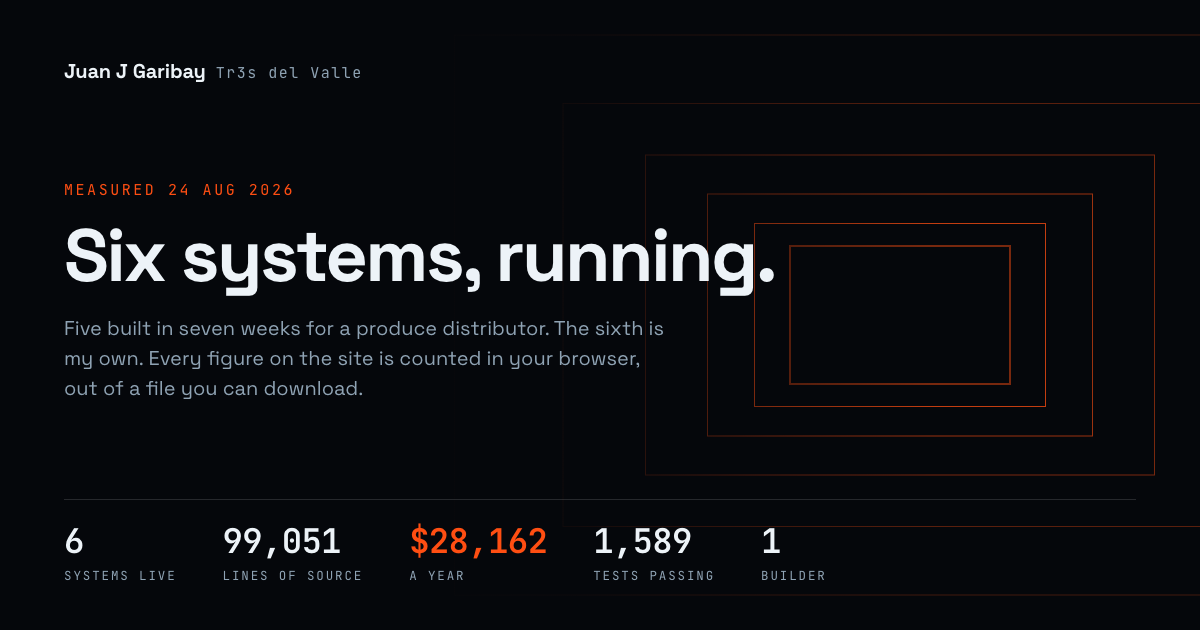
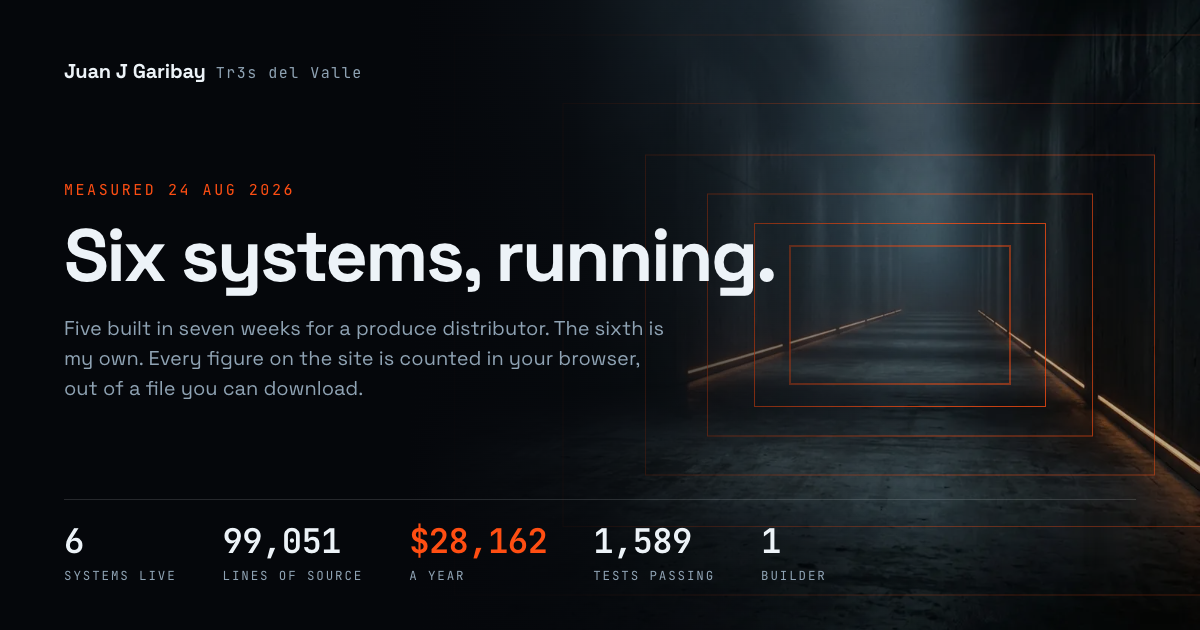
feat(portada): el mundo deja de ser solo geometria
Cinco planchas generadas, procesadas en vez de pegadas.

La marca del generador estaba en la esquina de todas. Medida contra el fondo
negro del bisel son 48x48 exactos a 96px de los dos bordes, y eso se sostiene
en las tres relaciones de aspecto que devolvio el generador: el margen es
absoluto, no proporcional. Un primer intento la dimensiono como porcentaje del
alto y le habria fallado la parte de arriba en las planchas mas altas. Se pinta
encima, no se recorta: recortar una textura destruye los bordes que tienen que
encontrarse.

Las dos texturas se vuelven continuas por construccion, espejadas en los dos
ejes. Diferencia media en el borde: 0.20 y 0.54 sobre 255.

El bisel se recorta a su propio marco, lo que lleva la abertura del 50% al 67%
del archivo y evita que un panel tenga que duplicar su tamano en el mundo para
que la captura se vea igual. La abertura mide 1.590 contra el 1.600 de las
capturas, asi que nada se estira. Currents no lleva marco: es un telefono, y un
telefono atornillado a un mamparo miente sobre lo que es.

Lo que se rompio, y por que vale escribirlo: las capturas salieron fuera de sus
marcos, mas grandes y corridas. `.bay__panel--framed img` y `.bay__panel img`
son ambas una clase mas un elemento, asi que empatan en especificidad y gana la
escrita despues; la regla base pone 100% de ancho y alto y va despues, asi que
la imagen tomo el marco entero pero respetando el left y el top de la otra.
[…]

Changed region(s): [[0.555, 0.0, 1.0, 0.9048]]

diff --git a/js/world.js b/js/world.js
@@ -180,12 +180,26 @@ const PANEL_AT = 0.94;
 /** Lateral standoff, on the opposite side from the copy. */
 const PANEL_X = 620;
 
+/**
+ * Panel geometry, in world units.
+ *
+ * For the five application screens this is the size of the FRAME, not of the
+ * screenshot: the bezel is the asset, and the screenshot is inset into its
+ * opening by the percentages measured off the image itself (16.73% / 22.14%,
+ * 66.91% x 56.33%). The frame's own aspect is 1100x822, so every framed entry
+ * holds that ratio and the opening inside it lands at 1.59, which is what the
+ * screenshots already are.
+ *
+ * Currents is not framed. It is a phone, and a phone bolted into a bulkhead is
+ * a lie about what it is; the portrait crop would also cut the screenshot.
+ */
+const FRAME_ASPECT = 1100 / 822;
 const SHAPE = {
-  'rutero-tdv':              { w: 820, h: 512 },
-  'cotizador-tdv':           { w: 760, h: 474 },
-  'cotizador-farmers-fresh': { w: 620, h: 474 },
-  'data-triage-center':      { w: 780, h: 487 },
-  'tdv-outbound-log':        { w: 720, h: 450 },
+  'rutero-tdv':              { w: 900, h: 673, framed: true },
+  'cotizador-tdv':           { w: 840, h: 628, framed: true },
+  'cotizador-farmers-fresh': { w: 720, h: 538, framed: true },
+  'data-triage-center':      { w: 860, h: 643, framed: true },
+  'tdv-outbound-log':        { w: 800, h: 598, framed: true },
   currents:                  { w: 285, h: 613 },
 };
 
@@ -206,8 +220,20 @@ function buildBays() {
     el.className = 'bay';
     el.dataset.z = String(z);
 
+    // A section of wall behind the frame. Without it a bezel hangs in mid-air,
+    // which is the one thing a bolted frame cannot plausibly do.
+    if (shape.framed) {
+      const wall = document.createElement('div');
+      wall.className = 'bay__wall';
+      wall.style.cssText =
+        `width:${Math.round(shape.w * 1.9)}px;height:${Math.round(shape.h * 1.75)}px;` +
+        `left:${Math.round(-shape.w * 0.95)}px;top:${Math.round(-shape.h * 0.875)}px;` +
+        `transform:rotateY(${rot}deg) translateZ(-14px)`;
+      el.append(wall);
+    }
+
     const panel = document.createElement('div');
-    panel.className = 'bay__panel';
+    panel.className = shape.framed ? 'bay__panel bay__panel--framed' : 'bay__panel';
     panel.style.cssText =
       `width:${shape.w}px;height:${shape.h}px;left:${-shape.w / 2}px;top:${-shape.h / 2}px;` +
       `transform:rotateY(${rot}deg)`;
@@ -241,6 +267,20 @@ function buildBays() {
     bayEls.push({ el, z, panel: true });
   });
 
+  // The end wall. The shader still draws its own terminal plate behind this,
+  // which is what shows before the image has decoded and under reduced motion;
+  // this is the surface the reader actually arrives at.
+  const wall = document.createElement('div');
+  wall.className = 'bay endwall';
+  wall.dataset.z = String(END_Z - 40);
+  const face = document.createElement('div');
+  face.className = 'endwall__face';
+  face.style.cssText = `width:3200px;height:1744px;left:-1600px;top:-872px`;
+  wall.append(face);
+  wall.style.transform = `translate3d(0,0,${-(END_Z - 40)}px)`;
+  cam.append(wall);
+  bayEls.push({ el: wall, z: END_Z - 40, far: 5200 });
+
   // Struts down the whole corridor. They are what makes the travel legible:
   // without something passing at a fixed interval, a fly-through has no speed.
   for (let z = 600; z < END_Z; z += 700) {
@@ -255,6 +295,27 @@ function buildBays() {
     s.style.transform = `translate3d(0,0,${-z}px)`;
     cam.append(s);
     bayEls.push({ el: s, z, strut: true });
+  }
+}
+
+/* ---------------------------------------------------------------- the dust */
+/* Two layers at different rates. Each cycles a scale as the camera advances,
+   so motes appear to pass rather than slide, and the two are half a cycle out
+   of phase so the loop never lands on both at once. */
+const dustLayers = [];
+function buildDust() {
+  document.querySelectorAll('[data-dust]').forEach((el, i) => {
+    dustLayers.push({ el, phase: i * 0.5, rate: i === 0 ? 0.00042 : 0.00026 });
+  });
+}
+function runDust(z) {
+  for (const d of dustLayers) {
+    const t = (z * d.rate + d.phase) % 1;
+    const scale = 1 + t * 0.9;
+    const fade = Math.sin(t * Math.PI);
+    d.el.style.transform = `scale(${scale.toFixed(3)})`;
+    // 0.55 read as snowfall. Dust should be noticed only once.
+    d.el.style.opacity = (fade * 0.16).toFixed(3);
   }
 }
 
@@ -320,6 +381,11 @@ void main() {
       float m = mod(floor(zk / GAP + 0.5), 4.0);
       float major = 1.0 - step(0.5, m);
       float fog = exp(-te * 0.00052);
+      // Rings stop before the end wall. Arriving, the nearest gantry sits a
+      // few metres ahead and its frame is then so large that only its top and
+      // bottom edges cross the screen: two hard orange bars that read as page
+      // furniture rather than as a passing structure.
+      fog *= smoothstep(uEnd, uEnd - 900.0, zk);
 
       vec3 c = mix(vec3(0.30, 0.44, 0.60), uAccent, 0.25 + major * 0.6 + uSurge * 0.7);
       float a = frame * fog * (0.55 + major * 0.45);
@@ -360,8 +426,12 @@ void main() {
       float plate = band(abs(q.x), -1.0, 820.0) * band(abs(q.y), -1.0, 500.0);
       float inner = band(abs(q.x), -1.0, 796.0) * band(abs(q.y), -1.0, 476.0);
       float grid = max(rib(q.x, 150.0, 1.0), rib(q.y, 150.0, 1.0)) * 0.10;
-      vec3 wall = mix(uCanvas, vec3(0.13, 0.16, 0.21), plate) + vec3(grid * 1.6) * plate;
-      wall += uAccent * (plate - inner) * 1.8;
+      // Plain and dark. The lit frame used to be drawn here, and now that a
+      // real surface is mounted at this depth the two stacked: an orange band
+      // across the top and bottom of the image that belonged to neither. What
+      // is left is the fallback that shows before the image decodes and under
+      // reduced motion, where it is the only end wall there is.
+      vec3 wall = mix(uCanvas, vec3(0.10, 0.12, 0.16), plate) + vec3(grid) * plate;
       float fog = 1.0 - exp(-te * 0.00046);
       shell = mix(mix(shell, wall, plate * 0.98 + 0.02), uCanvas, clamp(fog, 0.0, 1.0));
     }
@@ -770,17 +840,19 @@ function frame() {
 
   vp += (vpTarget - vp) * (reduce ? 1 : 0.04);
   scene.style.perspectiveOrigin = (vp * 100).toFixed(2) + '% 50%';
+  if (!reduce) runDust(camZ);
   cam.style.transform = `translate3d(${(-swayX * 0.25).toFixed(2)}px, ${(-swayY * 0.25).toFixed(2)}px, ${camZ.toFixed(1)}px)`;
 
   for (const b of bayEls) {
     const d = b.z - camZ;
-    const on = d > 30 && d < 3600;
+    const on = d > 30 && d < (b.far ? b.far + 700 : 3600);
     if (on !== b.on) { b.on = on; b.el.style.visibility = on ? 'visible' : 'hidden'; }
     if (on) {
       // Fade at BOTH ends. Only the far end was faded on the first cut, so a
       // panel about to pass the camera filled half the frame with a blurred
       // fragment of a screenshot behind the copy.
-      const far = Math.min(1, Math.max(0, 1 - (d - 2900) / 700));
+      const farStart = b.far || 2900;
+      const far = Math.min(1, Math.max(0, 1 - (d - farStart) / 700));
       const near = Math.min(1, Math.max(0, (d - 40) / 300));
       b.el.style.opacity = String(far * near);
       // Five of the six screens are light-UI applications. A fixed grade that
@@ -950,6 +1022,7 @@ async function boot() {
 
   buildMap();
   wireCopy();
+  buildDust();
   buildJudgement();
   buildLedger();
   buildBays();

diff --git a/css/pitwall.css b/css/pitwall.css
@@ -72,6 +72,70 @@
   border: 1px solid color-mix(in oklab, var(--sc-accent) 60%, transparent);
   box-shadow: 0 0 0 1px rgb(0 0 0 / 0.9), 0 30px 90px -20px rgb(0 0 0 / 0.95);
 }
+/* The wall each frame is bolted to. Sits just behind the bezel and is faded
+   hard, because it is a surface for the frame to sit on and not a subject. */
+.bay__wall {
+  position: absolute;
+  background: url("../img/corridor-panel.webp") center / 42% auto repeat;
+  opacity: 0.5;
+  filter: brightness(0.42) contrast(1.1);
+  mask-image: radial-gradient(ellipse 62% 62% at 50% 50%, #000 38%, transparent 86%);
+}
+
+/* The surface the corridor ends at. */
+.endwall__face {
+  position: absolute;
+  background: url("../img/endwall.webp") center / cover no-repeat;
+  filter: brightness(0.9);
+}
+
+/* The five application screens sit in a machined bezel. The frame is the image;
+   the screenshot is inset into its opening at percentages measured off that
+   image rather than eyeballed. Border, padding and shadow all come off, because
+   the asset already has them and drawn ones would double up. */
+.bay__panel--framed {
+  padding: 0;
+  border: 0;
+  background: url("../img/bay-housing.webp") center / 100% 100% no-repeat;
+  box-shadow: 0 30px 90px -20px rgb(0 0 0 / 0.95);
+}
+/* Doubled class on purpose. `.bay__panel--framed img` and `.bay__panel img`
+   are both one class plus one element, so they tie on specificity and the one
+   written later wins. The base rule sets width and height to 100% and is
+   written later, so the screenshot took the whole frame while still honouring
+   the left and top set here: it landed both oversized and offset. */
+.bay__panel.bay__panel--framed img {
+  position: absolute;
+  left: 16.73%;
+  top: 22.14%;
+  width: 66.91%;
+  height: 56.33%;
+}
+.bay__panel.bay__panel--framed::after {
+  /* The frame supplies its own lip and grade, so only the tint stays. */
+  box-shadow: none;
+  background: linear-gradient(155deg,
+    color-mix(in oklab, var(--sc-accent) 10%, transparent) 0%,
+    transparent 46%,
+    color-mix(in oklab, var(--sc-canvas) 42%, transparent) 100%);
+}
+
+/* Suspended dust, screen-blended so the plate's black ground drops out. */
+.dust {
+  position: absolute; inset: 0; z-index: 1;
+  pointer-events: none; overflow: hidden;
+  mix-blend-mode: screen;
+}
+.dust i {
+  position: absolute; inset: -30%;
+  display: block;
+  background: url("../img/dust.webp") repeat;
+  background-size: 1180px 1180px;
+  transform-origin: 50% 50%;
+  will-change: transform, opacity;
+  opacity: 0;
+}
+
 /* Five of the six screens are light-UI applications. Dropped straight onto a
    black corridor they read as blown-out white slabs, so they are graded down to
    sit in the room rather than float over it. */
@@ -420,11 +484,17 @@
 /* The close is a plate mounted in the end wall, so it is bordered on every
    side and catches light on its lip. A block with one border reads as a
    fragment of a layout; this has to read as an object in the room. */
+/* The recess in the end wall is the frame now, so the block does not draw one:
+   a bordered plate inside a lit recess is two frames arguing. The ground stays,
+   because type over a photographed wall needs somewhere to sit. */
 .plate--end {
   max-width: min(46rem, 80vw);
-  border: 1px solid color-mix(in oklab, var(--sc-accent) 46%, transparent);
-  background: color-mix(in oklab, var(--sc-canvas) 94%, transparent);
-  box-shadow: var(--sc-edge), 0 40px 110px -30px rgb(0 0 0 / 0.95);
+  border: 0;
+  background: radial-gradient(120% 100% at 50% 50%,
+    color-mix(in oklab, var(--sc-canvas) 88%, transparent) 0%,
+    color-mix(in oklab, var(--sc-canvas) 74%, transparent) 62%,
+    transparent 100%);
+  box-shadow: none;
   padding: var(--sc-8) var(--sc-7);
 }
 .plate--end h2 { text-wrap: balance; }
@@ -587,5 +657,7 @@
 
 @media (prefers-reduced-motion: reduce) {
   .audit__row, .ledger tbody tr, .hard-item { opacity: 1; transform: none; }
+  /* Drifting motes are decoration and carry no meaning, so they go entirely. */
+  .dust { display: none; }
   .bay__bar { transform: none !important; }
 }

diff --git a/og-source.html b/og-source.html
@@ -35,6 +35,16 @@
         -webkit-font-smoothing: antialiased;
       }
 
+      /* A real corridor behind, and the CSS frames on top of it. The drawn
+         frames stay: they are what ties the card to the page, which is built
+         out of exactly that shape. */
+      .plate {
+        position: absolute; inset: 0;
+        width: 100%; height: 100%;
+        object-fit: cover;
+        opacity: 0.72;
+      }
+
       /* The corridor, in CSS. Nested frames receding to a vanishing point set
          right of centre, exactly like the page: the type holds the left. */
       .corridor { position: absolute; inset: 0; overflow: hidden; }
@@ -121,6 +131,7 @@
     </style>
   </head>
   <body>
+    <img class="plate" src="img/og-plate.webp" alt="" />
     <div class="corridor" aria-hidden="true">
       <i style="width:1560px;height:980px;margin-left:300px;opacity:0.10"></i>
       <i style="width:1180px;height:742px;margin-left:300px;opacity:0.16"></i>

diff --git a/index.html b/index.html
@@ -186,6 +186,12 @@
   <div data-sc-world>
     <canvas id="corridor" aria-hidden="true"></canvas>
 
+    <!-- Dust, at two depths. Screen-blended so the plate's black ground drops
+         out and only the motes survive. It is the cheapest depth on the page:
+         geometry alone reads as a diagram, and a corridor with something
+         suspended in it reads as a place. -->
+    <div class="dust" aria-hidden="true"><i data-dust="0"></i><i data-dust="1"></i></div>
+
     <!-- The CSS 3D scene. Decorative: every fact it carries is stated in the
          copy layer as real text, so a reader who never sees it loses nothing. -->
     <div class="scene" aria-hidden="true">
